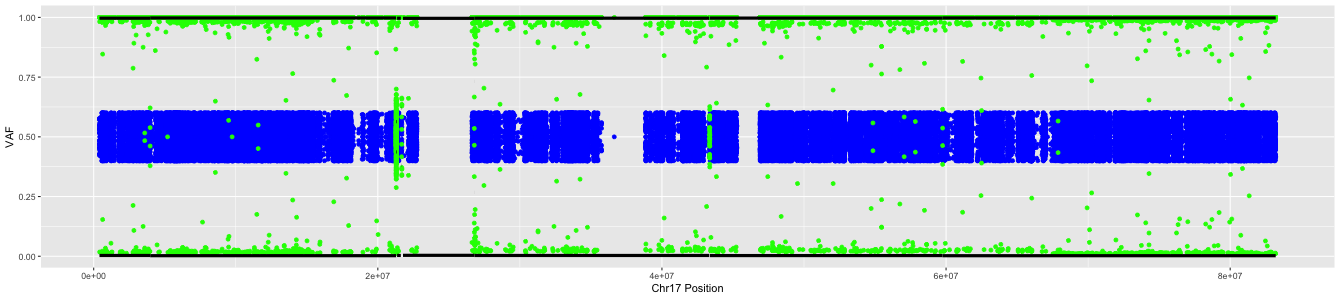
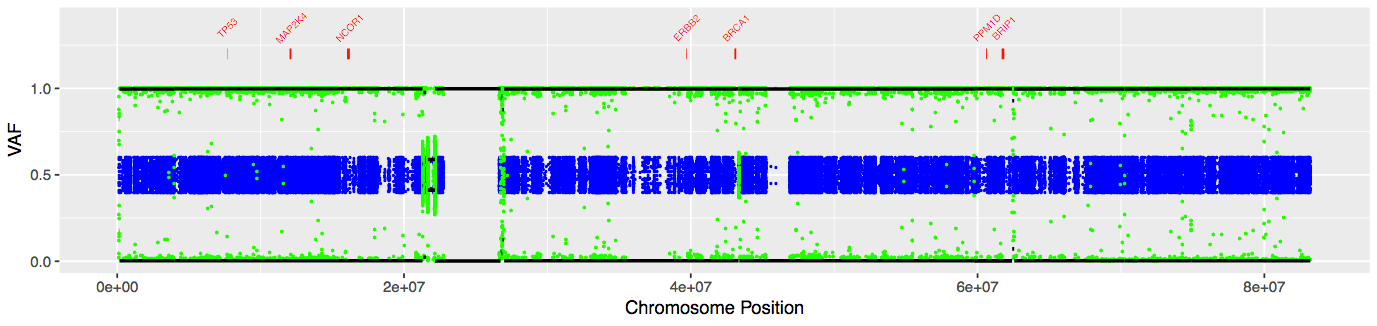
added changes to loh sections

diff --git a/_posts/0005-05-02-Somatic_LOH_FilteringAnnotationReview.md b/_posts/0005-05-02-Somatic_LOH_FilteringAnnotationReview.md
@@ -12,20 +12,17 @@ date: 0005-05-02
 - Find segments of chromosomes 17 that show LOH
 
 ### Get list of breast cancer genes on chromosome 17 
-Before we get our segmentation results, we will use a list of known breast cancer genes from Cancer Gene Census to extract gene information for breast cancer genes on chromosome 17. We will use this information later when we plot our segmentation results.
+Before we get our segmentation results, we will use a list of known breast cancer genes from the Cancer Gene Census to extract info for plotting these genes against our segmentation results.
 
 ```bash
-# Download tsv file with known breast cancer genes
-wget 
-
-# grep file for genes on chromosome 17
-grep "17:" > chr17_breast_cancer_genes.tsv
+# Download tsv file with known breast cancer genes on chromosome 17
+wget http://genomedata.org/pmbio-workshop/references/CGC/chr17_breast_cancer_genes.tsv
 
 # Create list of gene names
 awk '{print $1}' chr17_breast_cancer_genes.tsv > chr17_breast_cancer_gene_names
 
 # Filter gtf file down to chromosome 17 genes
-awk '$1 == "chr17" && $3 == "gene"' ref_transcriptome.gtf > chr17_ref_transcriptome.gtf
+awk '$1 == "chr17" && $3 == "gene"' /workspace/inputs/references/transcriptome/ref_transcriptome.gtf > chr17_ref_transcriptome.gtf
 
 # Remove " " from gene names in gtf file
 sed 's/[";]/ /g' chr17_ref_transcriptome.gtf > tmp.file
@@ -45,6 +42,9 @@ To find regions of LOH, we will use an R package for analyzing copy number varia
 # Start R
 R
 
+# Set working directory
+setwd("/workspace/somatic/loh")
+
 # Load libraries
 library(dplyr); library(tidyr); library(ggplot2); library(DNAcopy)
 
@@ -57,8 +57,10 @@ tumor$VAF <- as.numeric(tumor$VAF)
 # Create column for abs(.5 - tumor VAF)
 tumor$ABS <- abs(.5 - tumor$VAF)
 
-# Create CNA.object for DNAcopy segmentation analysis
+# Create CNA.object for DNAcopy segmentation analysis, Note: this step will give a warning about repeated maploc, we can ignore this warning
 LOH_CNA.object <- CNA(genomdat = tumor$ABS, chrom = tumor$CHROM, maploc = tumor$POS, data.type = 'binary')
+
+# Run segmentation analysis
 LOH.segmentation <- segment(LOH_CNA.object)
 LOH.segmentation.output <- LOH.segmentation$output
 
@@ -76,20 +78,16 @@ germline <- read.delim("heterozygous.snps.table", header = TRUE, col.names = c("
 cancer_genes <- read.delim("chr17_breast_cancer_genes.table", header = FALSE, col.names = c("CHROM", "START", "END", "GENE"))
 
 # Plot VAFs, LOH segments, breast cancer genes for chromosome 17
-png("chr17_segmentation.png", width = 1340, height = 300)
-chr17_segment_plot <- ggplot() + geom_point(data = germline, aes(POS,VAF), color="blue") + geom_point(data = tumor, aes(POS,VAF), color="green") + geom_segment(data = LOH_segments, aes(x = LOH_segments$START,y = LOH_segments$TOP,xend = LOH_segments$END,yend = LOH_segments$TOP), size = 1.5) + geom_segment(data = LOH_segments, aes(x = LOH_segments$START,y = LOH_segments$BOTTOM,xend = LOH_segments$END,yend = LOH_segments$BOTTOM), size = 1.5) + geom_segment(data = cancer_genes, aes(x = cancer_genes$START, y = 1.2, xend = cancer_genes$END, yend = 1.2), size = 3, color = "red") + geom_text(data = cancer_genes, aes(x=END, y=1.35, label=GENE), size = 3.5, color = "red", angle = 45, check_overlap = TRUE) + xlab("Chromosome Position") + ylab("VAF") + ylim(0, 1.4)
+pdf("chr17_segmentation.pdf", width = 11.5, height = 2.75)
+chr17_segment_plot <- ggplot() + geom_point(data = germline, aes(POS,VAF), color="blue", size = .75) + geom_point(data = tumor, aes(POS,VAF), color="green", size = .75) + geom_segment(data = LOH_segments, aes(x = LOH_segments$START,y = LOH_segments$TOP,xend = LOH_segments$END,yend = LOH_segments$TOP), size = 1) + geom_segment(data = LOH_segments, aes(x = LOH_segments$START,y = LOH_segments$BOTTOM,xend = LOH_segments$END,yend = LOH_segments$BOTTOM), size = 1) + geom_segment(data = cancer_genes, aes(x = cancer_genes$START, y = 1.2, xend = cancer_genes$END, yend = 1.2), size = 3, color = "red", na.rm = TRUE) + geom_text(data = cancer_genes, aes(x=END, y=1.35, label=GENE), size = 2, color = "red", angle = 45, na.rm = TRUE) + xlab("Chromosome Position") + ylab("VAF") + ylim(0, 1.4)
 plot(chr17_segment_plot)
 dev.off()
 
 # Exit R, no need to save workspace
 q()
 ```
-In your loh directory, you should now see a new file: chr17_segmentation.png
+In your loh directory, you should now see a new file: chr17_segmentation.pdf
 
 The plot you created should look similar to this plot:
-{% include figure.html image="/assets/module_5/chr17_segments_genes.png" position="left" width="1340" %}
-Blue is our normal heterozygous VAFs, green is our tumor VAFs, red is known breast cancer genes, and black is our segmentation results. Black lines close to 0 or 1 indicate segments of complete LOH, while lines between .4 to .6 indicate regions that are still heterozygous. As you can see, chromosome 17 exhibits nearly complete LOH in our tumor sample.
-
-If we had done the same LOH analysis on chromosome 6, we would have seen a plot similar to this:
-{% include figure.html image="/assets/module_5/chr6_segmentation.png" position="left" width="1340" %}
-Here, we see regions that are still heterozygous as well as regions of LOH.
+{% include figure.html image="/assets/module_5/chr17_segmentation.png" position="left" width="1340" %}
+Blue is our normal heterozygous VAFs, green is our tumor VAFs, red is known breast cancer genes, and black is our segmentation results. Black lines close to 0 or 1 indicate segments of complete LOH, while lines between .4 to .6 indicate regions that are still heterozygous. As we can see, chromosome 17 exhibits nearly complete LOH in our tumor sample.

diff --git a/_posts/0005-05-01-Somatic_LOH_Calling.md b/_posts/0005-05-01-Somatic_LOH_Calling.md
@@ -19,21 +19,21 @@ First, we will extract all SNPs from the VQSR-filtered whole genome VCF file cre
 
 ```bash
 # Make sure you are in directory for somatic results
-cd ~/workspace/results/somatic
+cd /workspace/somatic
 
 # Create directory for LOH results, move into that directory
 mkdir loh
 cd loh
 
-#Extract SNPs
-gatk --java-options '-Xmx64g' SelectVariants -R /home/ubuntu/data/reference/GRCh38_full_analysis_set_plus_decoy_hla.fa -V /home/ubuntu/data/germline_variants/WGS_Norm_HC_calls_recalibrated.PASS.vcf -select-type SNP -O WGS_Norm_HC_calls.recalibrated.PASS.snps.vcf
+# Extract SNPs
+gatk --java-options '-Xmx64g' SelectVariants -R /workspace/inputs/references/genome/ref_genome.fa -V /workspace/germline/WGS_Norm_HC_calls_recalibrated.PASS.vcf -select-type SNP -O WGS_Norm_HC_calls.recalibrated.PASS.snps.vcf
 ```
 
 ### Run GATK VariantsToTable
 Next, we will extract the columns with the data we will need for calculating VAFs and determining positions of heterozygosity. 
 
 ```bash
-#Create table with columns for chromosome, position, genotype, allele depth, total depth
+# Create table with columns for chromosome, position, genotype, allele depth, total depth
 gatk --java-options '-Xmx64g' VariantsToTable -V WGS_Norm_HC_calls.recalibrated.PASS.snps.vcf -F CHROM -F POS -GF GT -GF AD -GF DP -O WGS_Norm_HC_calls.recalibrated.PASS.snps.table
 ```
 
@@ -43,7 +43,10 @@ Now, we will use R to calulate the variant allele frequencies for each allele at
 ```bash
 # Start R
 R
- 
+
+# Set working directory
+setwd("/workspace/somatic/loh") 
+
 # Load libraries, Note: ";" separates commands so we can run multiple commands in one line
 library(dplyr); library(tidyr)
 
@@ -89,14 +92,18 @@ Next, to get the data needed to calculate VAFs in our tumor sample, we will run 
 
 ```bash
 # Run bam-readcount
-~/workspace/bin/bam-readcount -w 1 -b 20 -q 20 -f /home/ubuntu/data/reference/GRCh38_full_analysis_set_plus_decoy_hla.fa -l heterozygous.positions.txt /home/ubuntu/data/alignment/WGS_Tumor_merged_sorted_mrkdup_bqsr.bam chr6 chr17 > tumor.readcounts
+bam-readcount -w 1 -b 20 -q 20 -f /workspace/inputs/references/genome/ref_genome.fa -l heterozygous.positions.txt /workspace/align/WGS_Tumor_merged_sorted_mrkdup_bqsr.bam chr17 > tumor.readcounts
 ```
+
 ### Calculate tumor VAFs
 Now we will use output from bam-readcount to calculate tumor VAFs in R.
 
 ```bash
 # Start R
 R
+
+# Set working directory
+setwd("/workspace/somatic/loh")
 
 # Load libraries
 library(dplyr); library(tidyr); library(ggplot2)
@@ -137,8 +144,8 @@ write.table(tumor_VAFs, file="tumor.VAFs.table", sep = "\t", col.names = TRUE, r
 germline_VAFs <- read.delim("heterozygous.snps.table", header = TRUE, col.names = c("CHROM", "POS", "GT", "AD", "DP", "VAF"))
 
 # Plot VAFs for chromosome 17
-png("chr17_normal_vs_tumor_VAFs.png", width = 1340, height = 300)
-chr17_VAF_plot <- ggplot() + geom_point(data = germline_VAFs, aes(POS,VAF), color="blue") + geom_point(data = tumor_VAFs, aes(POS,VAF), color="green") + xlab("Chromosome Position") + ylab("VAF")
+pdf("chr17_normal_vs_tumor_VAFs.pdf", width = 11.5, height = 2.75)
+chr17_VAF_plot <- ggplot() + geom_point(data = germline_VAFs, aes(POS,VAF), color="blue", size = .75) + geom_point(data = tumor_VAFs, aes(POS,VAF), color="green", size = .75) + xlab("Chromosome Position") + ylab("VAF")
 plot(chr17_VAF_plot)
 dev.off()
 
@@ -147,9 +154,9 @@ q()
 ```
 You should now see two new files in your loh directory
 1. tumor.VAFs.table
-2. chr17_normal_vs_tumor_VAFs.png
+2. chr17_normal_vs_tumor_VAFs.pdf
 
 The plot should look similar to this:
-{% include figure.html image="/assets/module_5/chr17_normal_vs_tumor_VAFs.png" position="left" width="1340" %}
+{% include figure.html image="/assets/module_5/chr17_normal_vs_tumor.png" position="left" width="1340" %}
 
 In the next section, we will look for regions of LOH 
